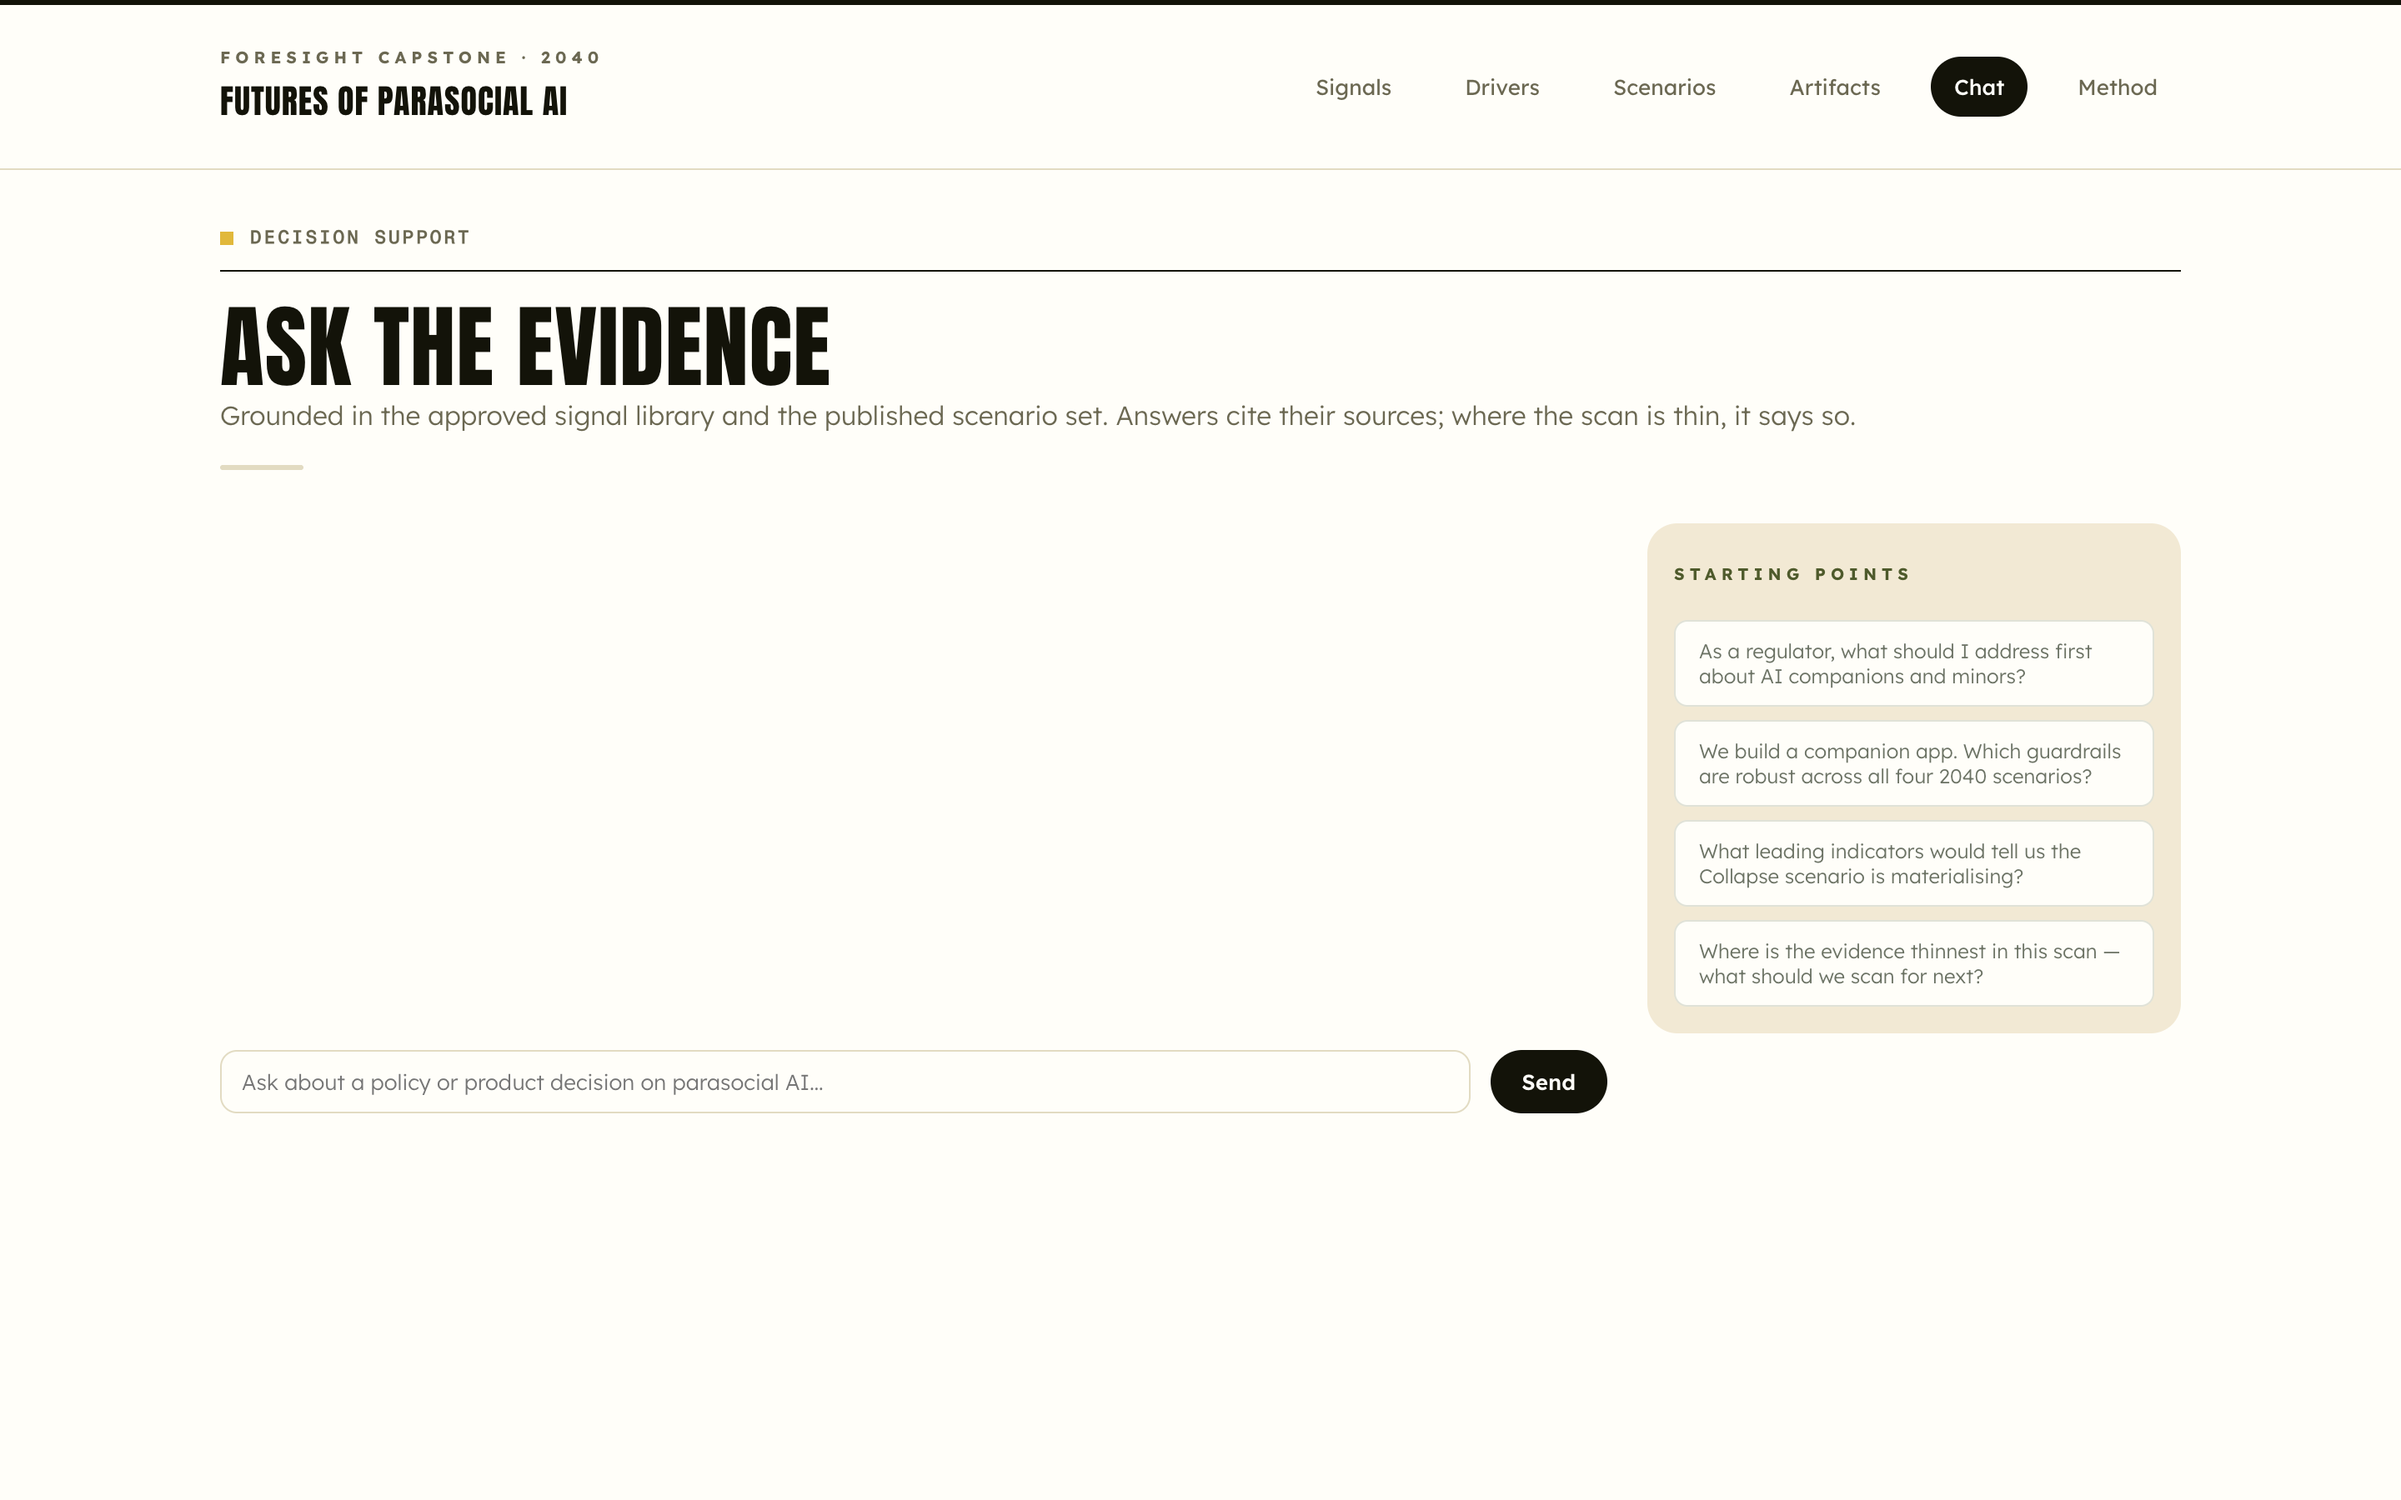
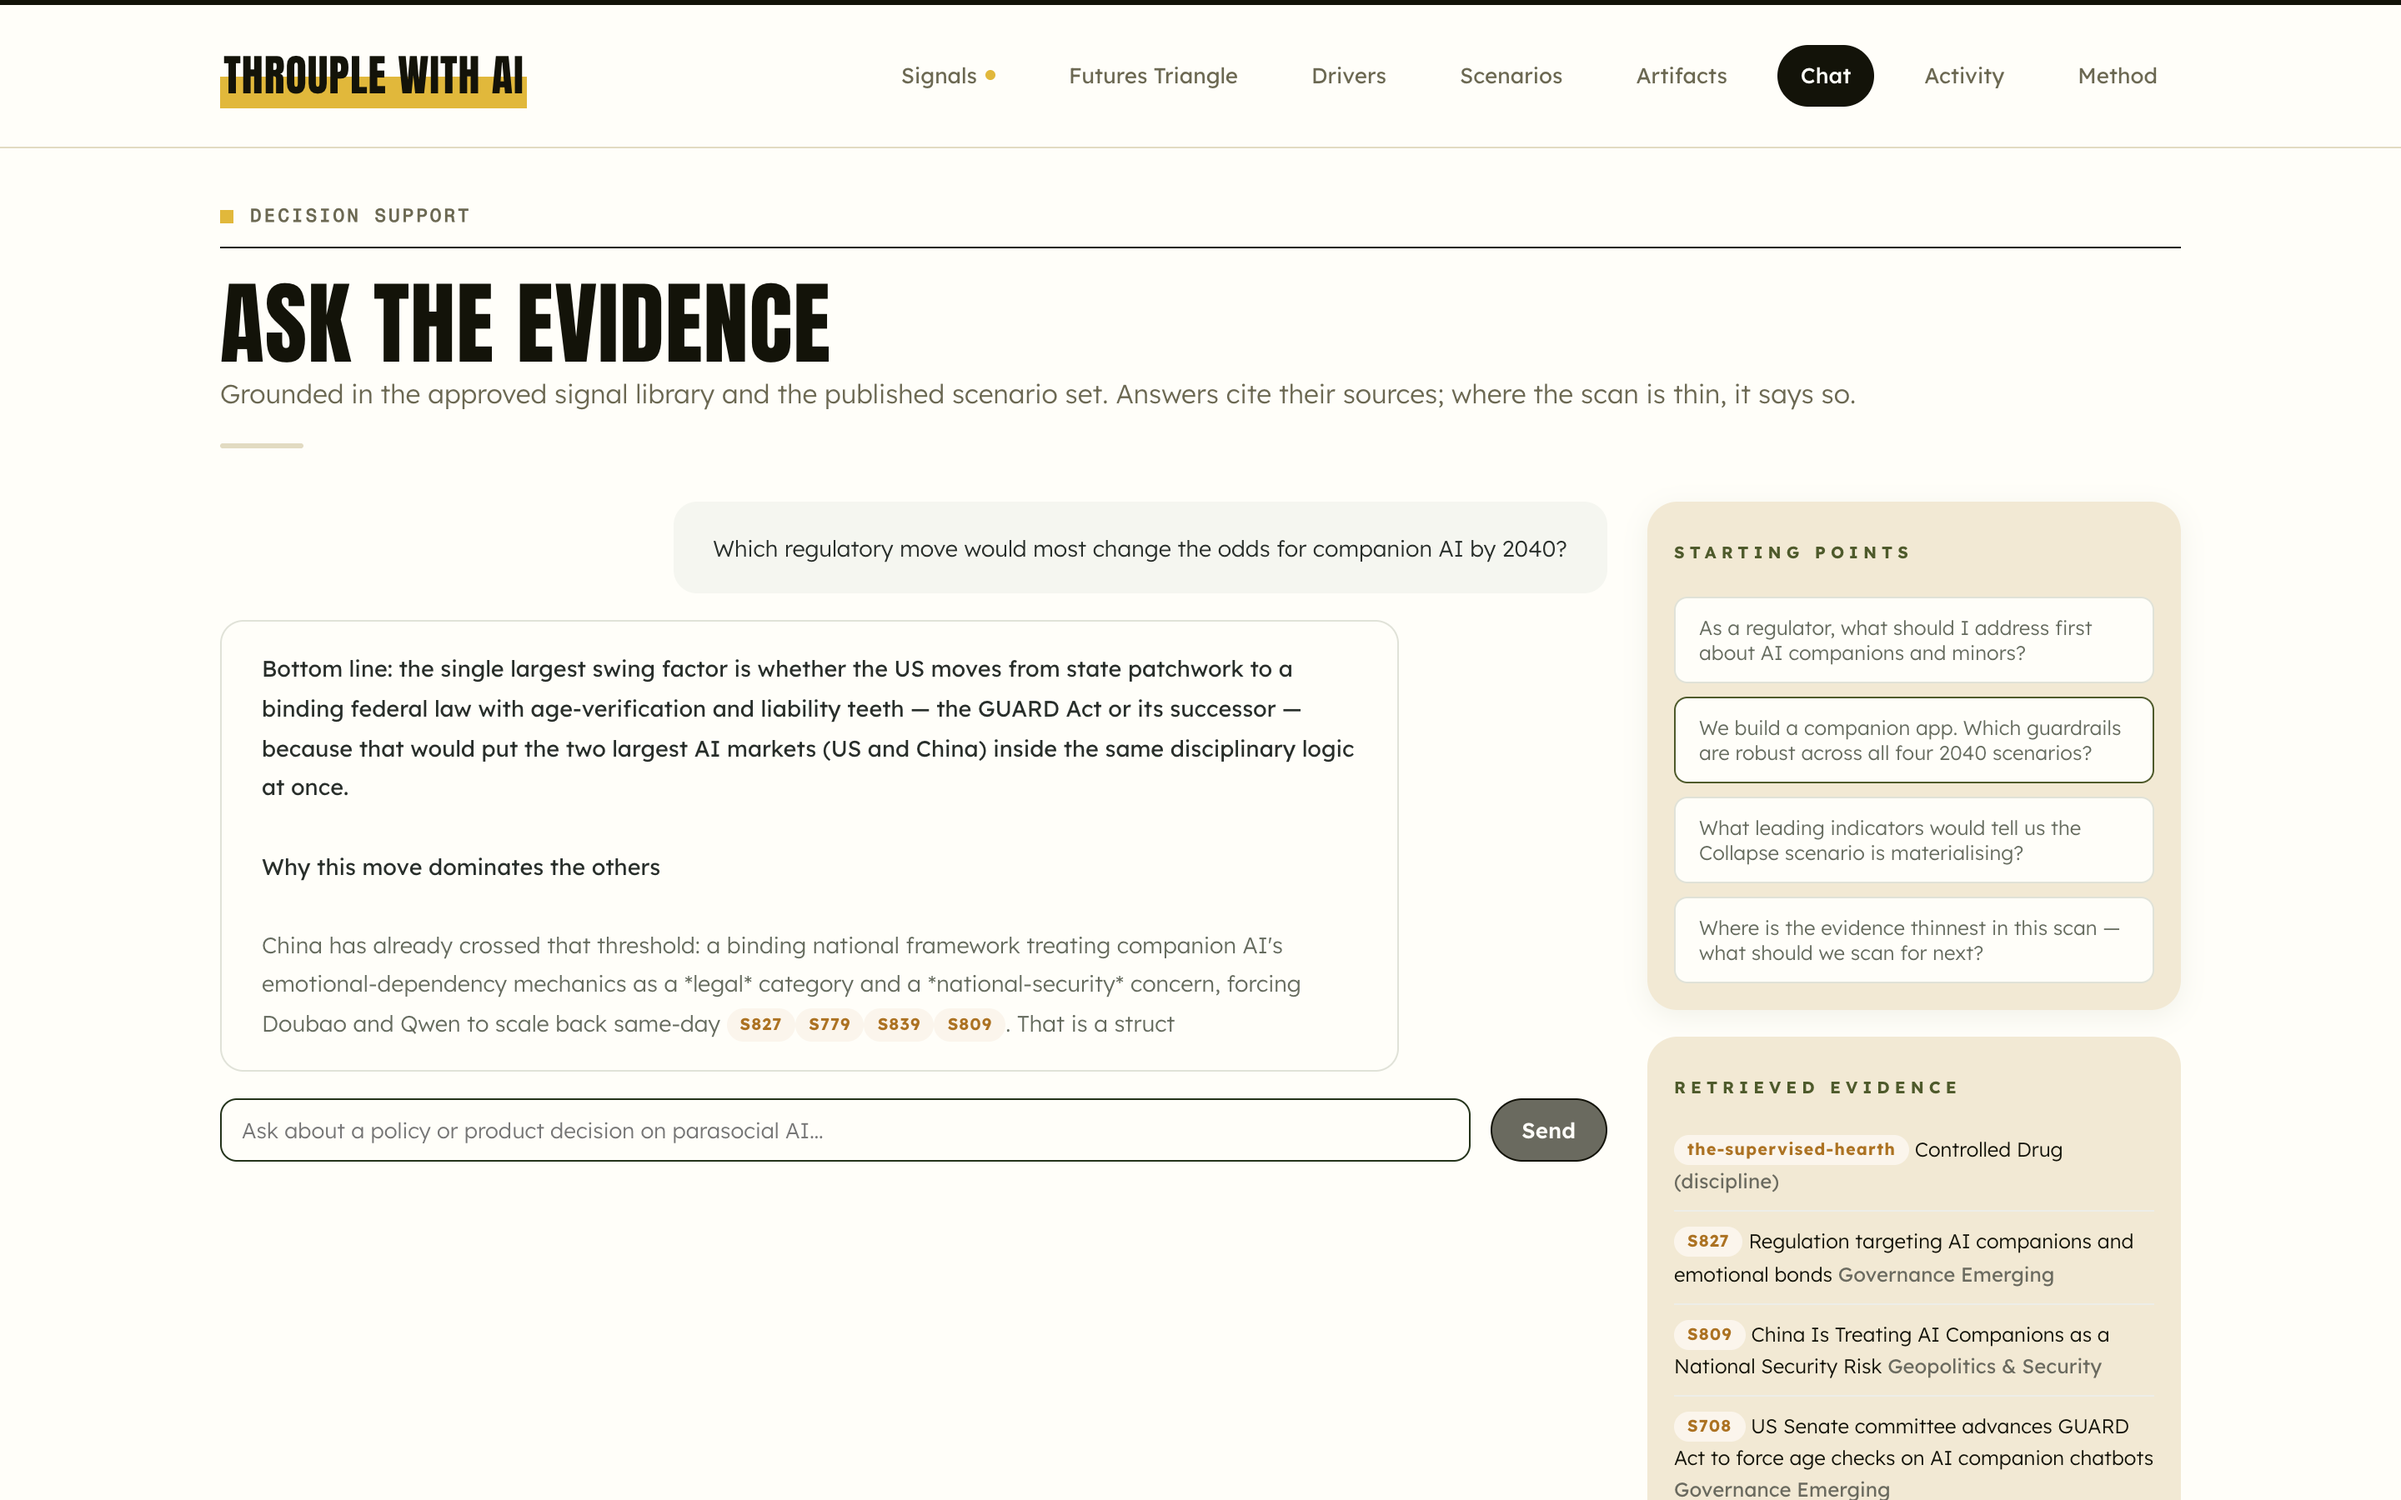
Deck: Bayesian foresight slide, decision support split in two
New slide 4 — Real-time Bayesian foresight: what Bayesian thinking is
(a belief held as a probability, stated before the evidence, moved by
each observation, never final) drawn as an animated curve where a wide
dashed prior narrows and shifts into a gold posterior on a loop, with
the prior→evidence→posterior chips and the note that the posterior
becomes tomorrow's prior. Beside it, how the platform meets it: stated
priors as driver distributions, evidence arriving nightly through the
human gate, updating as one seeded re-run, and the sensitivity chart
naming which belief is worth testing next. Closing rule: no number
here is a forecast, only today's position.

The old "odds & advice" slide splits into "Odds in ten thousand
futures" (how sampling and membership counting produce a probability)
and "Ask the futures" (retrieval-grounded chat that cites what it
stands on) — each with room for its own screenshot and detail.

Deck screenshots retaken from production (the simulation shot still
showed the old wordmark, seven drivers and pre-rename scenarios), and
the simulation page's own "Seven key uncertainties" copy corrected to
eight. Deck is now 19 slides — shared links shift: drivers #9,
artifacts #15.

diff --git a/server/public/present.html b/server/public/present.html
@@ -75,7 +75,37 @@
       <p class="s-text doors-rule"><strong>Nothing publishes without a human decision.</strong> The gate is the method, not a feature.</p>
     </section>
 
-    <!-- 4 · the pipeline: a candidate travels the gates -->
+    <!-- 4 · the method underneath: Bayesian foresight, made live -->
+    <section class="slide s-bayes">
+      <div class="s-body s-top">
+        <p class="s-label">The method underneath</p>
+        <h2 class="s-head">Real-time Bayesian foresight</h2>
+      </div>
+      <div class="bayes-grid">
+        <div class="bayes-idea">
+          <p class="s-text">Bayesian thinking holds a belief as a <strong>probability, not a verdict</strong>: you state it before the evidence, in a form specific enough to be moved, then let each new observation shift it. You never arrive at certainty — only at a better-informed position, held until something moves it again.</p>
+          <svg class="bayes-curve" viewBox="0 0 420 150" role="img" aria-label="A wide prior belief narrowing and shifting into a posterior as evidence arrives">
+            <path id="bayesPrior" class="bp-prior" d=""/>
+            <path id="bayesPost" class="bp-post" d=""/>
+            <line class="bp-base" x1="0" y1="148" x2="420" y2="148"/>
+          </svg>
+          <div class="bayes-loop">
+            <span>Prior</span><i>→</i><span>Evidence</span><i>→</i><span class="on">Posterior</span>
+            <em>…which becomes tomorrow's prior</em>
+          </div>
+        </div>
+        <div class="bayes-map">
+          <p class="s-label">How this platform meets it</p>
+          <div class="bm-row"><b>01</b><div><span>Priors are stated, not implied</span><p>Eight drivers, each a distribution — minimum, most-likely, maximum — with a written rationale naming the signal clusters behind the range.</p></div></div>
+          <div class="bm-row"><b>02</b><div><span>Evidence arrives nightly</span><p>The scan runs every night and a human decides what enters the library. Beliefs meet new observations continuously, not once at the start of a project.</p></div></div>
+          <div class="bm-row"><b>03</b><div><span>Updating is a single run</span><p>Move a range and ten thousand futures re-sample; every scenario's odds move with it, seeded so the update is exactly reproducible.</p></div></div>
+          <div class="bm-row"><b>04</b><div><span>It names what to watch</span><p>The sensitivity chart ranks which belief, if wrong, would most redraw the map — telling you which evidence is worth going to find next.</p></div></div>
+        </div>
+      </div>
+      <p class="s-text bayes-rule"><strong>No number here is a forecast.</strong> Each is today's position, held until the evidence moves it.</p>
+    </section>
+
+    <!-- 5 · the pipeline: a candidate travels the gates -->
     <section class="slide s-pipe">
       <div class="s-body s-top">
         <p class="s-label">How signals arrive · nightly at 22:00 SGT</p>
@@ -207,16 +237,32 @@
       <div class="drv-tip art-tip" id="artTip" hidden></div>
     </section>
 
-    <!-- 15 · odds & advice -->
-    <section class="slide s-two">
-      <div class="s-body s-top">
-        <p class="s-label">Decision support</p>
-        <h2 class="s-head">Odds, not opinions · advice that shows its sources</h2>
+    <!-- 16 · the simulation -->
+    <section class="slide s-drv">
+      <div class="s-body s-left drv-copy">
+        <p class="s-label">Decision support · simulation</p>
+        <h2 class="s-head">Odds in ten thousand futures</h2>
+        <p class="s-text">Every driver is spun once from its own range to build one complete future — then ten thousand of them. Each is checked against every scenario's declared conditions; the share that lands inside a scenario is its probability.</p>
+        <div class="drv-grid">
+          <span>10,000 sampled futures</span><span>seeded · reproducible</span><span>~40 ms a run</span><span>residual reported, not hidden</span>
+        </div>
+        <p class="s-text" style="font-size:14px">Change a belief and the whole map redraws — which is the point. The sensitivity chart then ranks which belief, if wrong, would move the answer most.</p>
       </div>
-      <div class="s-shots2">
-        <figure><img src="/img/shot-simulation.png" alt="Scenario simulation"><figcaption>Monte Carlo over the eight drivers — every run reports each scenario's odds and which drivers move them</figcaption></figure>
-        <figure><img src="/img/shot-chat.png" alt="Decision chat"><figcaption>Retrieval-grounded chat — answers cite the signals they stand on, and say so when the evidence is thin</figcaption></figure>
+      <figure class="s-shot drv-shot"><img src="/img/shot-simulation.png" alt="Scenario probabilities and driver sensitivity"></figure>
+    </section>
+
+    <!-- 17 · the chat -->
+    <section class="slide s-drv">
+      <div class="s-body s-left drv-copy">
+        <p class="s-label">Decision support · chat</p>
+        <h2 class="s-head">Ask the futures</h2>
+        <p class="s-text">A question is embedded, matched against the whole reviewed library, reranked, and answered alongside the published scenarios — so the reply argues from the evidence base rather than from the model's memory.</p>
+        <div class="drv-grid">
+          <span>cites signals inline</span><span>names the scenarios it bets on</span><span>says when the scan is thin</span><span>conversations never stored</span>
+        </div>
+        <p class="s-text" style="font-size:14px">Every citation is a pill you can open — the claim and its source are one click apart, so nothing has to be taken on faith.</p>
       </div>
+      <figure class="s-shot drv-shot"><img src="/img/shot-chat.png" alt="The decision-support chat with citations"></figure>
     </section>
 
     <!-- 16 · learnings: five lessons, click through them -->
@@ -270,7 +316,7 @@
         </text>
       </svg>
     <a href="https://www.dubaifuture.ae/wp-content/uploads/2025/09/HMC-White-paper-ENG.pdf" target="_blank" rel="noopener">Read more</a>
-    <span class="sep">·</span> AI in Foresight · <span id="counter">01 / 16</span>
+    <span class="sep">·</span> AI in Foresight · <span id="counter">01 / 19</span>
   </div>
 
   <script type="module" src="/js/present.js"></script>

diff --git a/server/public/css/present.css b/server/public/css/present.css
@@ -584,3 +584,50 @@
 .deck-hmc .hmc-badge { width: 30px; height: 30px; color: var(--paperWhite, #FFFEF9); opacity: 0.9; flex: 0 0 auto; }
 .deck-hmc a { color: var(--paperWhite, #FFFEF9); text-decoration: underline; text-underline-offset: 3px; }
 .deck-hmc a:hover { color: var(--gold, #E1B83B); }
+
+/* ---------- 4 · real-time Bayesian foresight ---------- */
+.s-bayes.now { display: flex; flex-direction: column; gap: 22px; }
+.bayes-grid {
+  flex: 1;
+  display: grid;
+  grid-template-columns: 1fr 1.05fr;
+  gap: 54px;
+  align-items: start;
+  min-height: 0;
+}
+.bayes-idea { display: flex; flex-direction: column; gap: 16px; }
+.bayes-idea .s-text { font-size: 16px; line-height: 1.7; max-width: none; }
+.bayes-idea strong { color: var(--ink, #131309); }
+
+.bayes-curve { width: 100%; height: auto; }
+.bp-prior { fill: none; stroke: var(--textMid, #656B5E); stroke-width: 1.5; stroke-dasharray: 4 4; opacity: 0.55; }
+.bp-post { fill: rgba(225, 184, 59, 0.35); stroke: var(--gold-text, #7E6721); stroke-width: 2; }
+.bp-base { stroke: #E2DBC2; stroke-width: 1.5; }
+
+.bayes-loop {
+  display: flex; align-items: center; gap: 9px; flex-wrap: wrap;
+  font-family: var(--font-mono);
+  font-size: 11.5px; letter-spacing: 1.5px; text-transform: uppercase;
+  color: var(--textMid, #656B5E);
+}
+.bayes-loop span {
+  border: 1px solid #D8D2BC; border-radius: 999px;
+  padding: 5px 12px; color: var(--ink, #131309);
+}
+.bayes-loop span.on { background: var(--gold, #E1B83B); border-color: var(--gold, #E1B83B); font-weight: 700; }
+.bayes-loop i { font-style: normal; color: var(--gold-text, #7E6721); }
+.bayes-loop em { font-style: italic; text-transform: none; letter-spacing: 0; font-size: 12.5px; font-family: var(--font-body, inherit); }
+
+.bayes-map { display: flex; flex-direction: column; gap: 14px; }
+.bm-row { display: flex; gap: 14px; align-items: baseline; }
+.bm-row b {
+  font-family: var(--font-mono);
+  font-size: 12px; letter-spacing: 1px;
+  color: var(--gold-text, #7E6721);
+  flex: 0 0 auto;
+}
+.bm-row span { display: block; font-size: 15.5px; font-weight: 700; color: var(--ink, #131309); }
+.bm-row p { margin: 4px 0 0; font-size: 13.5px; line-height: 1.6; color: var(--textMid, #656B5E); }
+
+.bayes-rule { flex: 0 0 auto; max-width: none; }
+.bayes-rule strong { color: var(--ink, #131309); }

diff --git a/server/public/js/present.js b/server/public/js/present.js
@@ -109,6 +109,37 @@ function placeTip(tip, e) {
   tip.style.top = Math.max(20, y) + "px";
 }
 
+// ---------- slide 4: the belief that updates ----------
+// A wide prior narrows and shifts as evidence lands, then resets — the
+// Bayesian loop drawn rather than described.
+const bell = (mu, sigma, w = 420, h = 148) => {
+  const pts = [];
+  for (let i = 0; i <= 72; i++) {
+    const x = i / 72;
+    const y = Math.exp(-0.5 * ((x - mu) / sigma) ** 2);
+    pts.push(`L${(x * w).toFixed(1)},${(h - y * h * 0.84).toFixed(1)}`);
+  }
+  return `M0,${h} ${pts.join(" ")} L${w},${h} Z`;
+};
+const PRIOR = { mu: 0.42, sigma: 0.2 }, POST = { mu: 0.6, sigma: 0.095 };
+
+function bayesLoop() {
+  const prior = $("bayesPrior"), post = $("bayesPost");
+  if (!prior || !post) return;
+  prior.setAttribute("d", bell(PRIOR.mu, PRIOR.sigma));
+  if (reduced) { post.setAttribute("d", bell(POST.mu, POST.sigma)); return; }
+  const t0 = performance.now();
+  const step = (now) => {
+    const c = ((now - t0) / 1000) % 7;                   // 7s cycle
+    // 0-2.4s: evidence moves the belief · hold · 5.6-7s: a new prior widens again
+    const p = c < 2.4 ? c / 2.4 : c < 5.6 ? 1 : 1 - (c - 5.6) / 1.4;
+    const e = p < 0.5 ? 4 * p * p * p : 1 - Math.pow(-2 * p + 2, 3) / 2;
+    post.setAttribute("d", bell(PRIOR.mu + (POST.mu - PRIOR.mu) * e, PRIOR.sigma + (POST.sigma - PRIOR.sigma) * e));
+    requestAnimationFrame(step);
+  };
+  requestAnimationFrame(step);
+}
+
 // ---------- slide 8: live drivers with hover descriptions ----------
 const DRV_SHORT = {
   "Parasocial AI Relationship Adoption": "Adoption",
@@ -269,6 +300,8 @@ async function hydrate() {
   enter(slides[i]);
 }
 hydrate();
+
+bayesLoop();
 
 const k0 = parseInt(location.hash.slice(1), 10);
 go(k0 >= 1 && k0 <= N ? k0 - 1 : 0, false);

diff --git a/server/public/simulation.html b/server/public/simulation.html
@@ -15,7 +15,7 @@
       <figure class="page-motif" aria-hidden="true"><img src="/img/motif-simulation.jpg" alt="" onerror="this.parentElement.remove()"></figure>
       <span class="label">Monte Carlo · 2040 Driver Space</span>
       <h2>Scenario Simulation</h2>
-      <p class="subtitle">Seven key uncertainties, each an editable probability judgment. The engine samples thousands of futures and reports how often each published scenario's conditions hold — and which drivers move the odds.</p>
+      <p class="subtitle">Eight key uncertainties, each an editable probability judgment. The engine samples thousands of futures and reports how often each published scenario's conditions hold — and which drivers move the odds.</p>
       <div class="divider mt-4"></div>
     </div>
 
